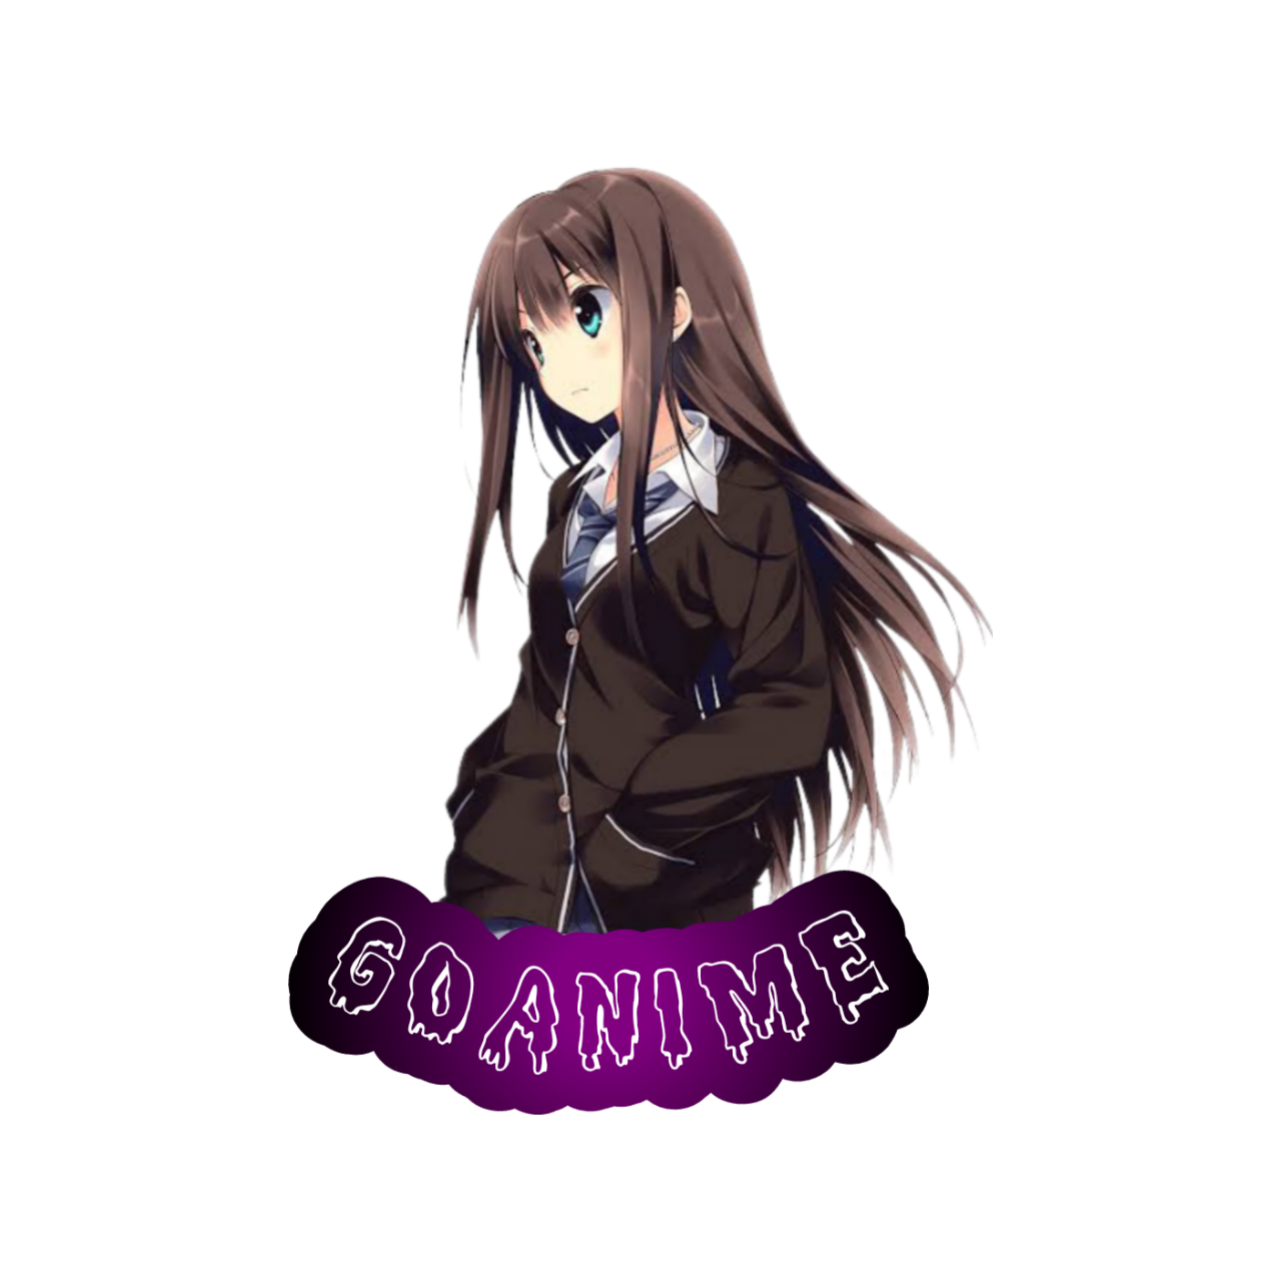
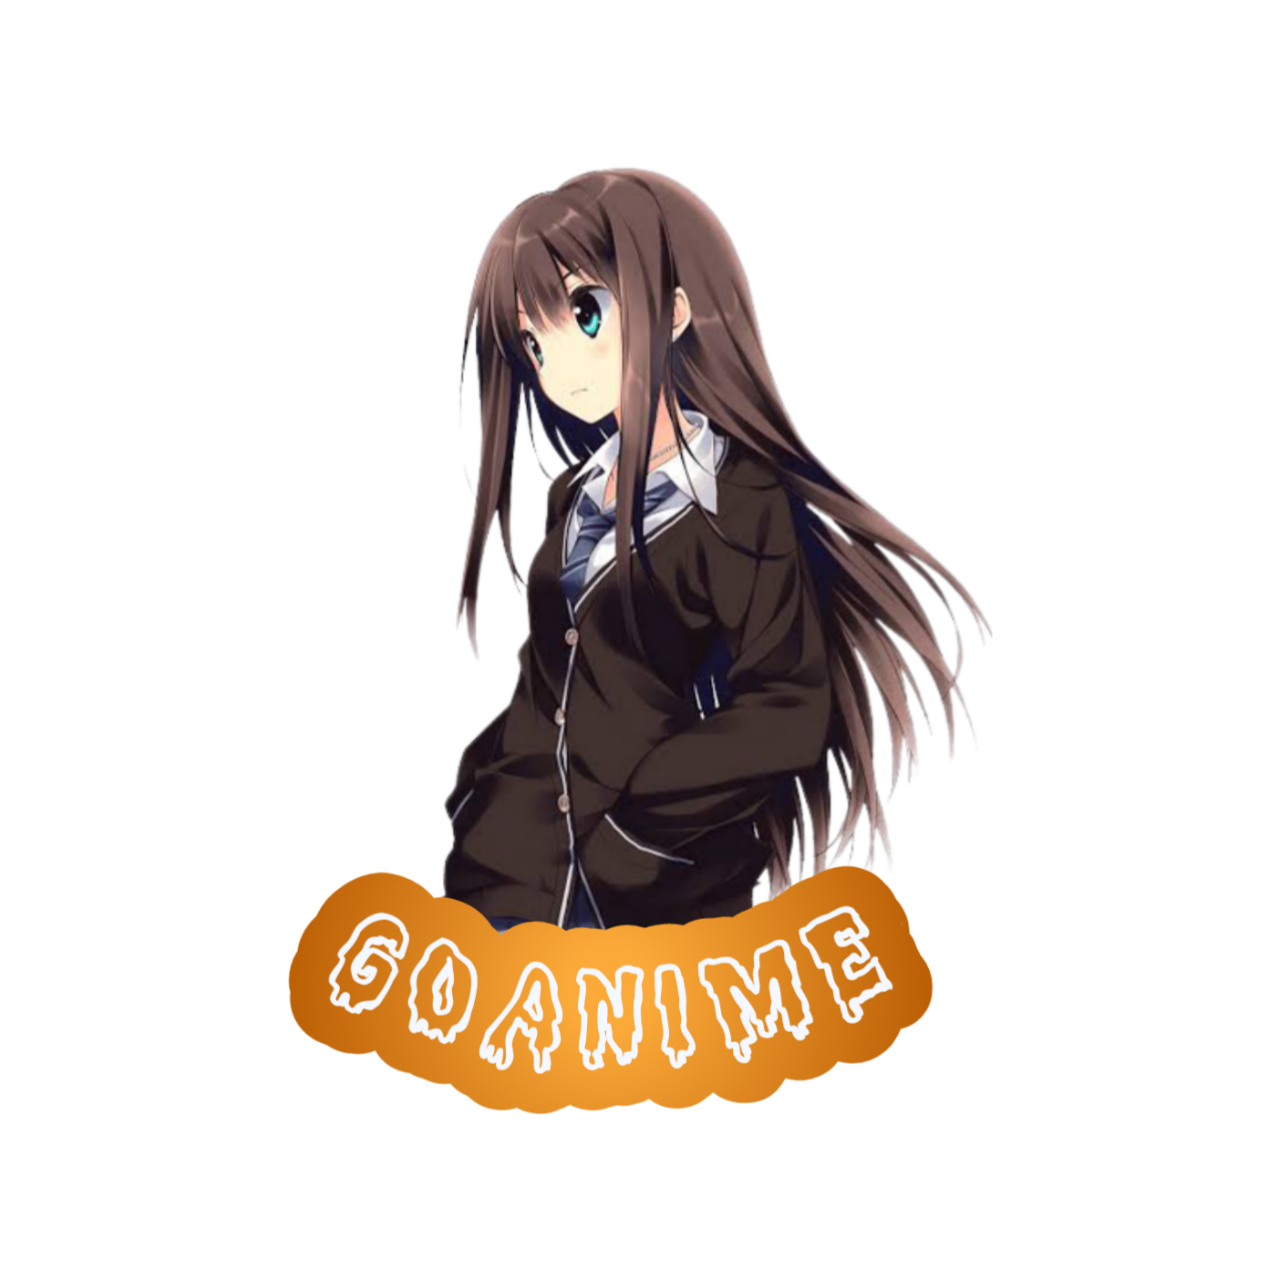
new

diff --git a/category.html b/category.html
@@ -1,0 +1,41 @@
+<!doctype html>
+<html lang="en">
+  <head>
+    <!-- Required meta tags -->
+    <meta charset="utf-8">
+    <meta name="viewport" content="width=device-width, initial-scale=1">
+
+    <!-- Bootstrap CSS -->
+    <link href="https://cdn.jsdelivr.net/npm/bootstrap@5.0.2/dist/css/bootstrap.min.css" rel="stylesheet" integrity="sha384-EVSTQN3/azprG1Anm3QDgpJLIm9Nao0Yz1ztcQTwFspd3yD65VohhpuuCOmLASjC" crossorigin="anonymous">
+
+    <!-- Bootstrap Icons -->
+    <link rel="stylesheet" href="https://cdn.jsdelivr.net/npm/bootstrap-icons@1.9.1/font/bootstrap-icons.css">
+
+    <!-- Style CSS-->
+    <link rel="stylesheet" href="style/style.css">
+
+    <title>GoAnime</title>
+  </head>
+  <body>
+    
+<div class="container-body">
+    <!-- LOADER-->
+ <div class="load">
+  <img src="https://mir-s3-cdn-cf.behance.net/project_modules/max_632/04de2e31234507.564a1d23645bf.gif" alt="">
+ </div>
+
+ <!-- Category Page-->
+ <div class="category">
+
+ </div>
+ 
+</div>
+
+
+    <!-- Option 1: Bootstrap Bundle with Popper -->
+    <script src="https://cdn.jsdelivr.net/npm/bootstrap@5.0.2/dist/js/bootstrap.bundle.min.js" integrity="sha384-MrcW6ZMFYlzcLA8Nl+NtUVF0sA7MsXsP1UyJoMp4YLEuNSfAP+JcXn/tWtIaxVXM" crossorigin="anonymous"></script>
+
+    <script src="https://cdn.jsdelivr.net/npm/@popperjs/core@2.9.2/dist/umd/popper.min.js" integrity="sha384-IQsoLXl5PILFhosVNubq5LC7Qb9DXgDA9i+tQ8Zj3iwWAwPtgFTxbJ8NT4GN1R8p" crossorigin="anonymous"></script>
+    <script src="https://cdn.jsdelivr.net/npm/bootstrap@5.0.2/dist/js/bootstrap.min.js" integrity="sha384-cVKIPhGWiC2Al4u+LWgxfKTRIcfu0JTxR+EQDz/bgldoEyl4H0zUF0QKbrJ0EcQF" crossorigin="anonymous"></script>
+  </body>
+</html>

diff --git a/style/style.scss b/style/style.scss
@@ -9,7 +9,7 @@ body{
     align-items: center;
     width:100vw;
     height:100vh;
-    background-color: rgb(107, 41, 107);
+    background-color: rgb(233, 168, 27);
 }
 
 .container-body{
@@ -31,7 +31,7 @@ body{
         border:none;
         outline:none;
         border-radius: 50%;
-        background-color: rgb(107, 41, 107);
+        background-color: rgb(233, 168, 27);
         color:white;
         font-weight: bold;
         position: absolute;
@@ -39,15 +39,31 @@ body{
         left:80%;
         box-shadow: 5px 5px 10px rgba(0,0,0,0.3);
     }
+
+    .load{
+        position: relative;
+       // background-color: rgb(17, 17, 39);
+        width:100%;
+        height:100%;
+
+        img{
+            position: relative;
+            width:200px;
+            height:200px;
+            left:calc(50% - 100px);
+            top:calc(50% - 100px);
+        }
+    }
 }
+
+
+
 
 @media screen and (max-width:780px){
     .container-body{
         width:100%;
         overflow: hidden;
 
-        button{
-           
-        }
+       
     }
 }

diff --git a/style/style.css b/style/style.css
@@ -9,7 +9,7 @@ body {
   align-items: center;
   width: 100vw;
   height: 100vh;
-  background-color: rgb(107, 41, 107);
+  background-color: rgb(233, 168, 27);
 }
 
 .container-body {
@@ -31,13 +31,25 @@ body {
   border: none;
   outline: none;
   border-radius: 50%;
-  background-color: rgb(107, 41, 107);
+  background-color: rgb(233, 168, 27);
   color: white;
   font-weight: bold;
   position: absolute;
   bottom: 30px;
   left: 80%;
   box-shadow: 5px 5px 10px rgba(0, 0, 0, 0.3);
+}
+.container-body .load {
+  position: relative;
+  width: 100%;
+  height: 100%;
+}
+.container-body .load img {
+  position: relative;
+  width: 200px;
+  height: 200px;
+  left: calc(50% - 100px);
+  top: calc(50% - 100px);
 }
 
 @media screen and (max-width: 780px) {
